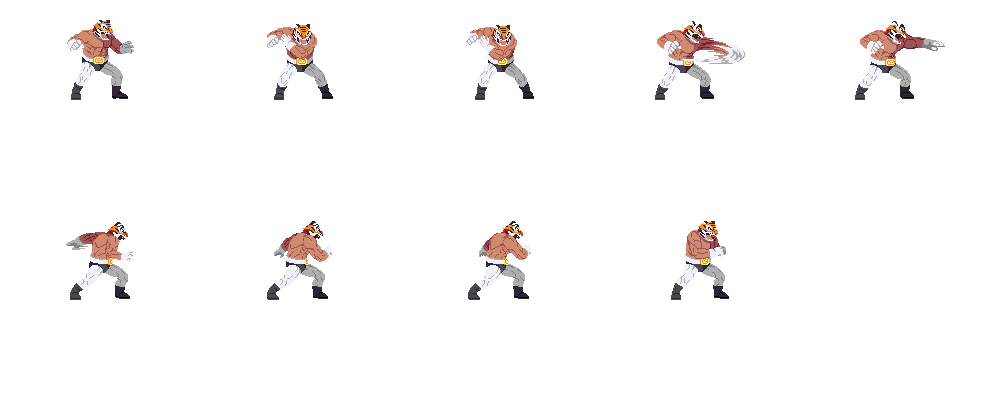
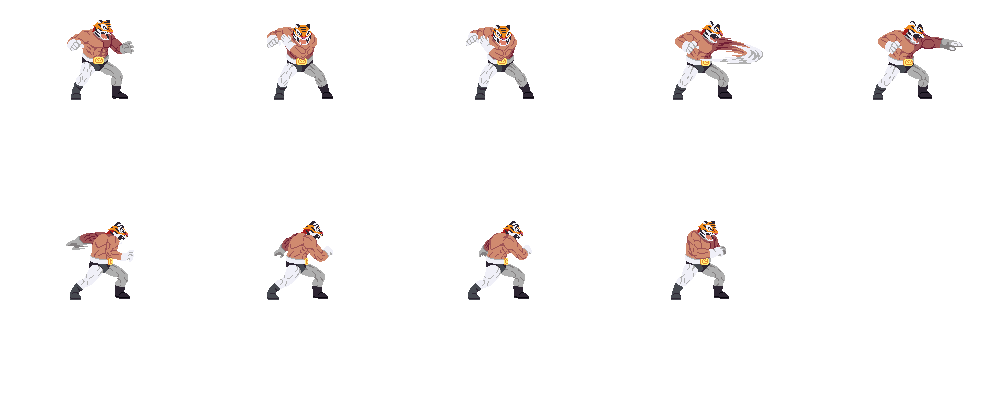
민경운 : Enemy 리소스 수정

Changed region(s): [[0.651, 0.06, 0.775, 0.27], [0.837, 0.06, 0.961, 0.27]]

diff --git a/Dx2dGameMKU/GameEngineContents/CrossTownLevel2.cpp b/Dx2dGameMKU/GameEngineContents/CrossTownLevel2.cpp
@@ -7,6 +7,7 @@
 #include "RCGEnums.h"
 #include "BackGround.h"
 #include "FieldDoor.h"
+#include "EnemySpawner.h"
 
 const std::vector<std::pair<std::string_view, float4>> CrossTownLevel2::BGInfoes =
 {
@@ -34,6 +35,7 @@ void CrossTownLevel2::Start()
 
 	CreateBackGrounds();
 	CreateDoors();
+	CreateEnemies();
 
 	FieldLevelBase::SetPlayerStartPosition(float4{ -1300.f, -200.f , -200.f });
 }
@@ -54,7 +56,7 @@ void CrossTownLevel2::LoadImgRes()
 void CrossTownLevel2::CreateBackGrounds()
 {
 	const float4 LevelArea = ResourceHelper::GetTextureScale("CrossTown2BG.png") * RCGDefine::ResourceScaleConvertor;
-	FieldLevelBase::Init(LevelArea, TileInfoData());
+	FieldLevelBase::Init(LevelArea, TileInfoData(200, 100));
 	FieldLevelBase::CreateBackGrounds(BGInfoes);
 	FieldLevelBase::CreateCollisionImage(CollisionImageName);
 }
@@ -77,4 +79,10 @@ void CrossTownLevel2::CreateDoors()
 	DoorPtr->Init(DoorType::Shop, float4{ 0.f, 50.f, 50.f });
 	DoorPtr->Unlock(LevelNames::Shop_StoreLevel);
 	DoorPtr->GetTransform()->SetLocalPosition(float4{-1000.f, -50.f, -50.f});
+}
+
+void CrossTownLevel2::CreateEnemies()
+{
+	//GetEnemySpawner().CreateEnemy(EnemyType::Hooligan, float4::Down * 100.f);
+	GetEnemySpawner().CreateEnemy(EnemyType::TigerMan, float4::Down * 80.f);
 }

diff --git a/Dx2dGameMKU/GameEngineContents/CrossTownLevel2.h b/Dx2dGameMKU/GameEngineContents/CrossTownLevel2.h
@@ -23,6 +23,7 @@ private:
 	void LoadImgRes();
 	void CreateBackGrounds();
 	void CreateDoors();
+	void CreateEnemies();
 };
 
 
